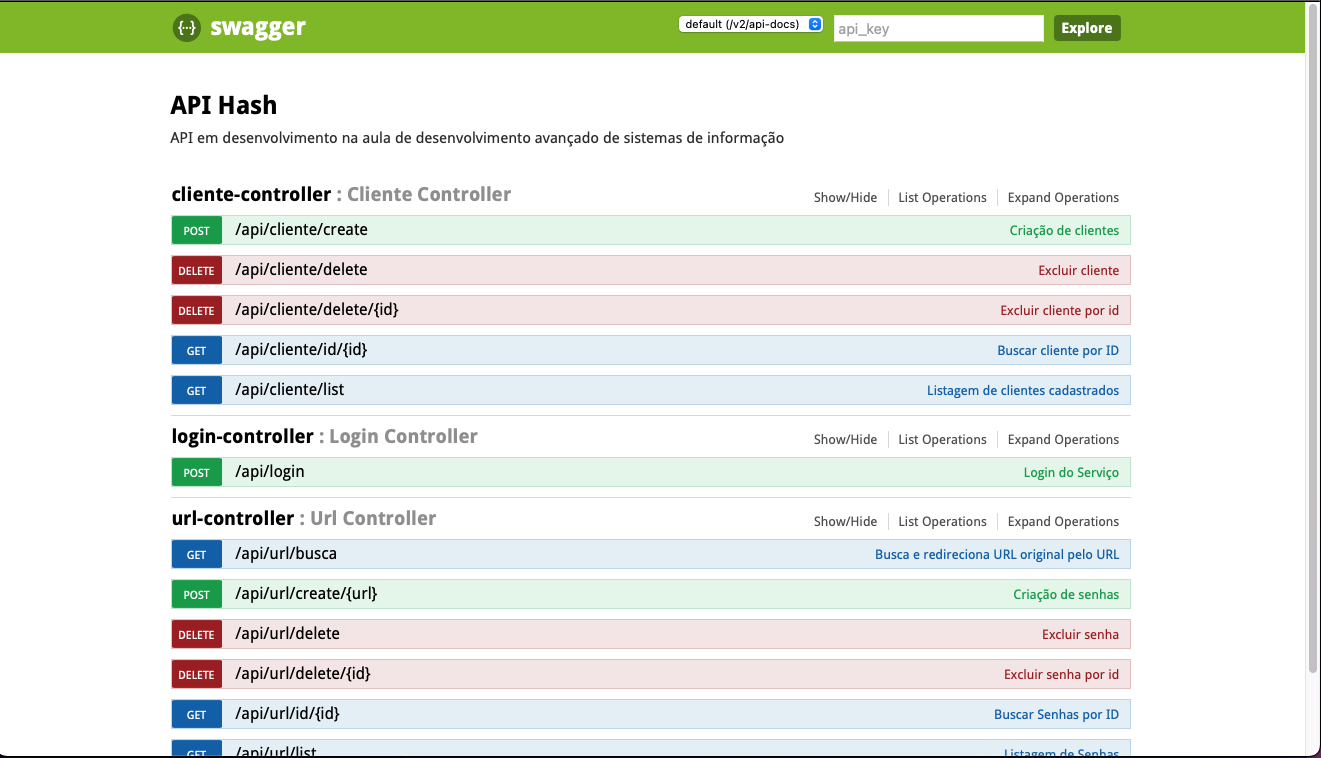
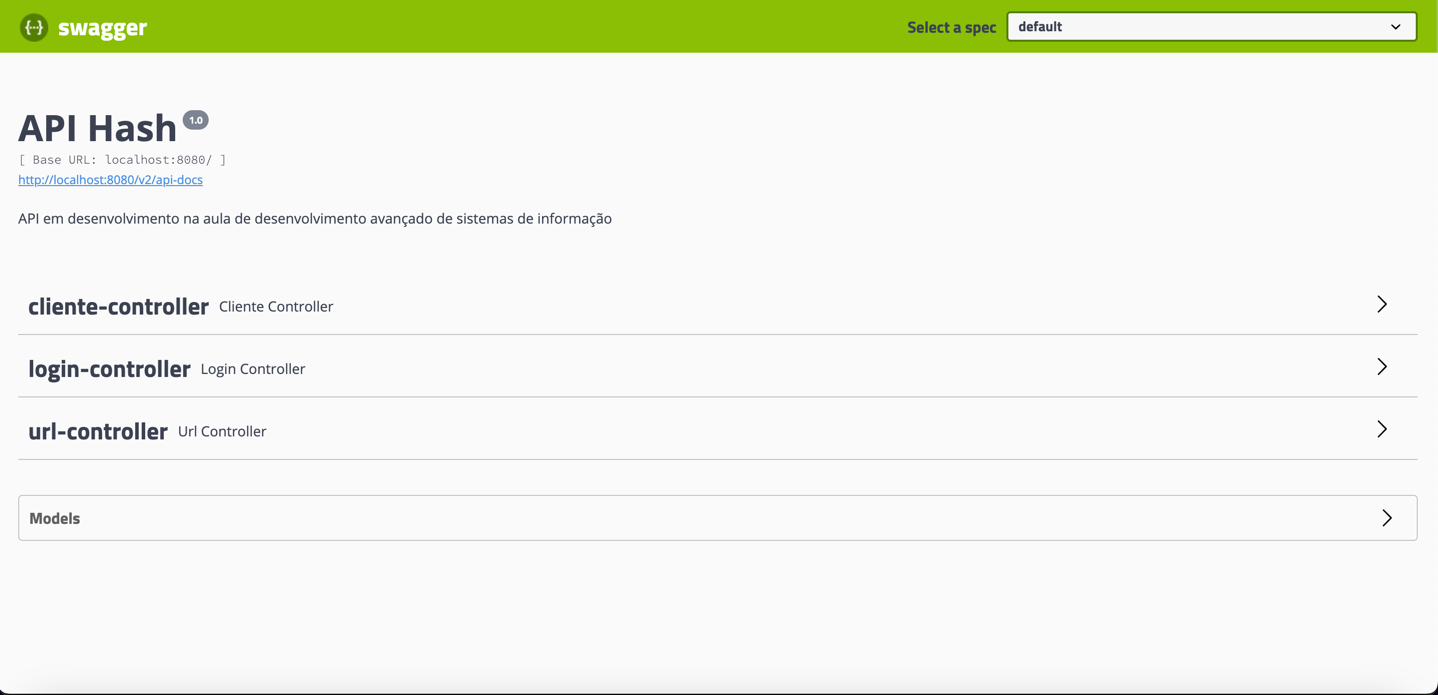
:feat: update Swagger version :books: add new image

Changed region(s): [[0.0, 0.0, 1.0, 1.0], [0.0, 0.7252, 0.0621, 0.7554]]

diff --git a/src/main/java/com/example/encurtadorurl/encurtador/url/controller/UrlController.java b/src/main/java/com/example/encurtadorurl/encurtador/url/controller/UrlController.java
@@ -4,6 +4,7 @@ import com.example.encurtadorurl.encurtador.url.domain.Url;
 import com.example.encurtadorurl.encurtador.url.service.UrlService;
 import io.swagger.annotations.Api;
 import io.swagger.annotations.ApiOperation;
+import io.swagger.annotations.ApiResponse;
 import org.springframework.beans.factory.annotation.Autowired;
 import org.springframework.http.HttpStatus;
 import org.springframework.http.ResponseEntity;
@@ -23,12 +24,12 @@ public class UrlController {
     private UrlService services;
 
     @GetMapping(path = "api/url/list")
-    @ApiOperation(value = "Listagem de Senhas")
+    @ApiOperation(value = "Listagem de Urls")
     public ResponseEntity<List<Url>> urls(){
         return ResponseEntity.status(HttpStatus.OK).body(services.findAll());
     }
-    @PostMapping(path = "api/url/create/{url}")
-    @ApiOperation(value = "Criação de senhas")
+    @PostMapping(path = "api/url/create/")
+    @ApiOperation(value = "Criação de urls")
     public ResponseEntity<Url> create(@RequestBody String url){
         return ResponseEntity.status(HttpStatus.OK).body(services.save(url));
     }
@@ -66,13 +67,13 @@ public class UrlController {
     }
 
     @DeleteMapping(path = "api/url/delete")
-    @ApiOperation(value = "Excluir senha")
+    @ApiOperation(value = "Excluir URL")
     public ResponseEntity delete(@RequestBody Url url){
         services.delete(url);
         return ResponseEntity.status(HttpStatus.OK).body(true);
     }
     @DeleteMapping(path = "api/url/delete/{id}")
-    @ApiOperation(value = "Excluir senha por id")
+    @ApiOperation(value = "Excluir URL por id")
     public ResponseEntity deletebyid(@PathVariable(value = "id")UUID id){
         services.deletebyid(id);
         return ResponseEntity.status(HttpStatus.OK).body(true);
